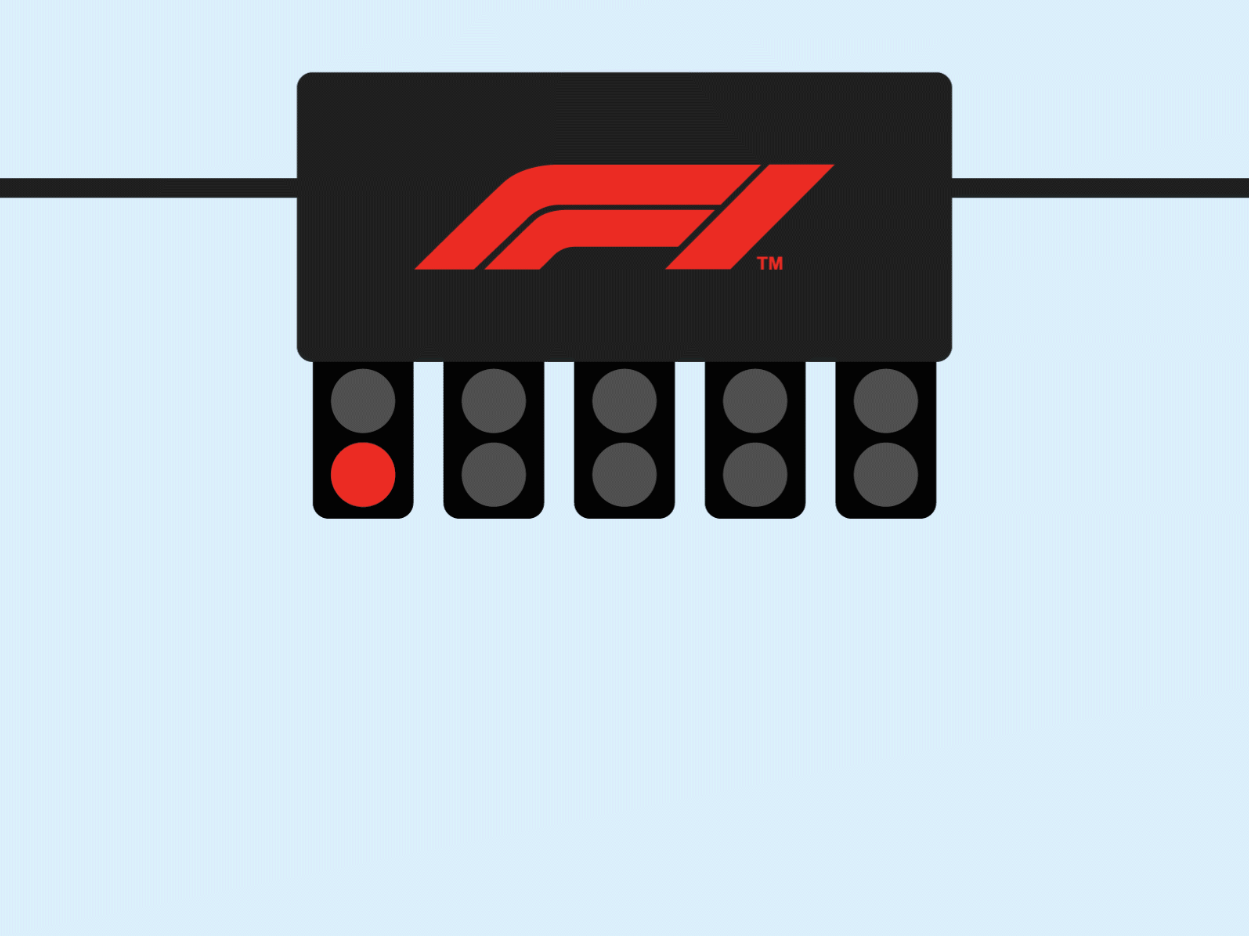
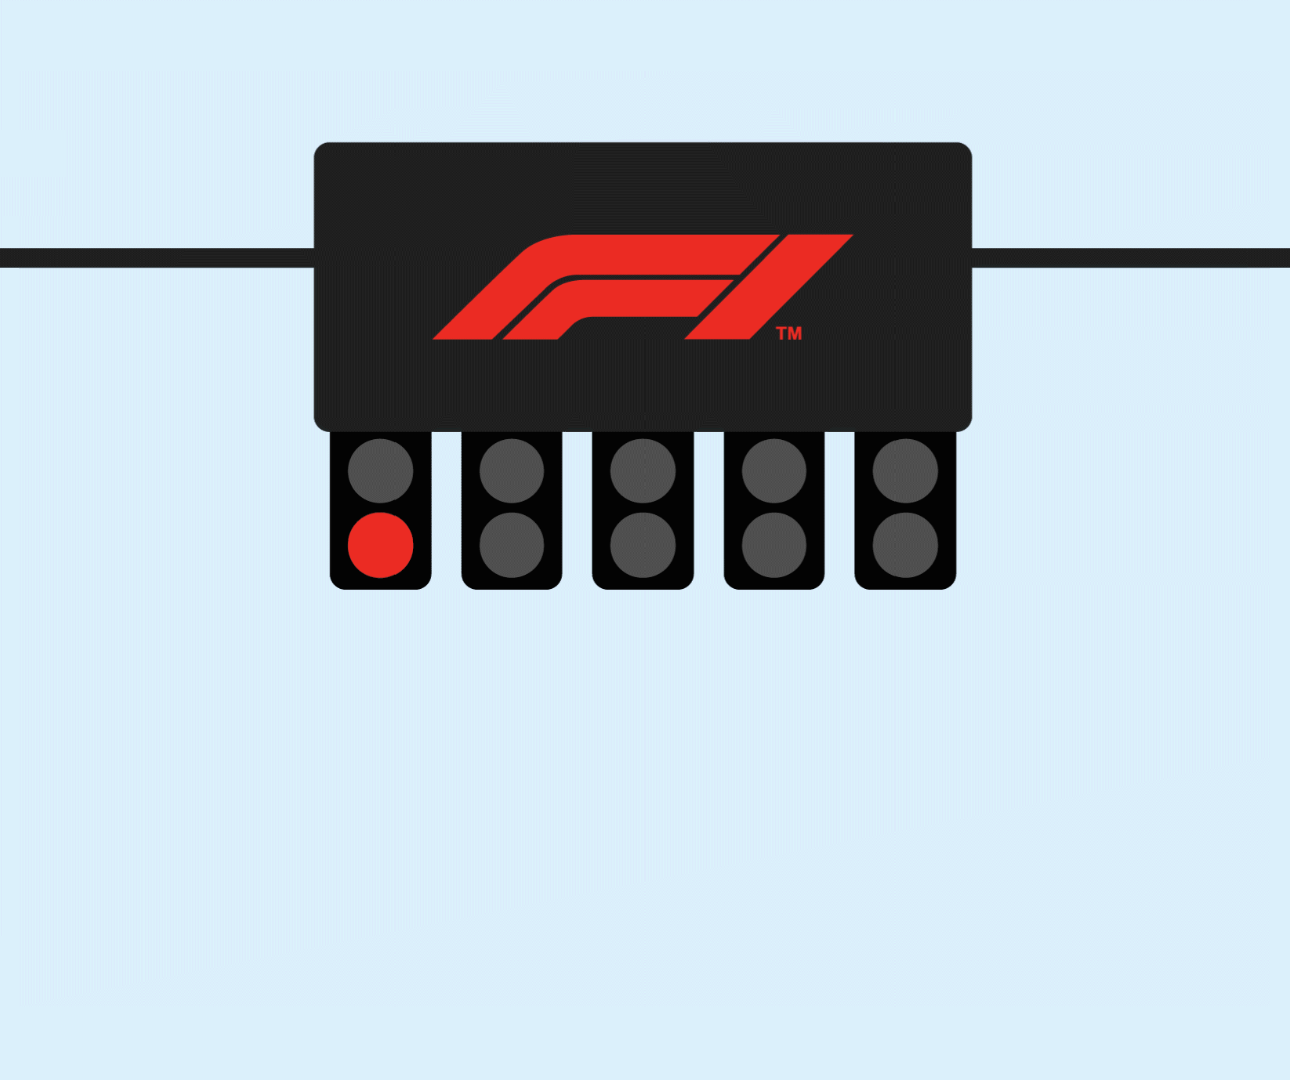
Fixing errors, working backend to output.

Changed region(s): [[0.0, 0.062, 1.0, 0.5577]]

diff --git a/EOY_PAT/src/main/java/UI/StrategyOutput.java b/EOY_PAT/src/main/java/UI/StrategyOutput.java
@@ -18,7 +18,7 @@ public class StrategyOutput extends javax.swing.JFrame
     public StrategyOutput()
     {
         initComponents();
-        setLocation(590, 360);
+        setLocation(null);
 
     }
     
@@ -34,16 +34,18 @@ public class StrategyOutput extends javax.swing.JFrame
     private void initComponents()
     {
 
-        jScrollPane1 = new javax.swing.JScrollPane();
-        strategyOutputTextArea = new javax.swing.JTextArea();
         back_Button = new javax.swing.JButton();
         save_Button = new javax.swing.JButton();
+        jScrollPane1 = new javax.swing.JScrollPane();
+        outputList = new javax.swing.JList<>();
+        backgroundLabel = new javax.swing.JLabel();
 
         setDefaultCloseOperation(javax.swing.WindowConstants.EXIT_ON_CLOSE);
-
-        strategyOutputTextArea.setColumns(20);
-        strategyOutputTextArea.setRows(5);
-        jScrollPane1.setViewportView(strategyOutputTextArea);
+        setMaximumSize(new java.awt.Dimension(1290, 1080));
+        setMinimumSize(new java.awt.Dimension(16, 9));
+        setPreferredSize(new java.awt.Dimension(1290, 1080));
+        setSize(new java.awt.Dimension(1920, 1080));
+        getContentPane().setLayout(new org.netbeans.lib.awtextra.AbsoluteLayout());
 
         back_Button.setText("Back");
         back_Button.addActionListener(new java.awt.event.ActionListener()
@@ -53,34 +55,21 @@ public class StrategyOutput extends javax.swing.JFrame
                 back_ButtonActionPerformed(evt);
             }
         });
+        getContentPane().add(back_Button, new org.netbeans.lib.awtextra.AbsoluteConstraints(20, 880, 73, -1));
 
         save_Button.setText("Save");
+        getContentPane().add(save_Button, new org.netbeans.lib.awtextra.AbsoluteConstraints(520, 890, 73, -1));
 
-        javax.swing.GroupLayout layout = new javax.swing.GroupLayout(getContentPane());
-        getContentPane().setLayout(layout);
-        layout.setHorizontalGroup(
-            layout.createParallelGroup(javax.swing.GroupLayout.Alignment.LEADING)
-            .addGroup(layout.createSequentialGroup()
-                .addContainerGap()
-                .addGroup(layout.createParallelGroup(javax.swing.GroupLayout.Alignment.LEADING)
-                    .addComponent(jScrollPane1, javax.swing.GroupLayout.DEFAULT_SIZE, 280, Short.MAX_VALUE)
-                    .addGroup(layout.createSequentialGroup()
-                        .addComponent(back_Button, javax.swing.GroupLayout.PREFERRED_SIZE, 73, javax.swing.GroupLayout.PREFERRED_SIZE)
-                        .addPreferredGap(javax.swing.LayoutStyle.ComponentPlacement.RELATED, javax.swing.GroupLayout.DEFAULT_SIZE, Short.MAX_VALUE)
-                        .addComponent(save_Button, javax.swing.GroupLayout.PREFERRED_SIZE, 73, javax.swing.GroupLayout.PREFERRED_SIZE)))
-                .addContainerGap())
-        );
-        layout.setVerticalGroup(
-            layout.createParallelGroup(javax.swing.GroupLayout.Alignment.LEADING)
-            .addGroup(layout.createSequentialGroup()
-                .addContainerGap()
-                .addComponent(jScrollPane1, javax.swing.GroupLayout.DEFAULT_SIZE, 169, Short.MAX_VALUE)
-                .addPreferredGap(javax.swing.LayoutStyle.ComponentPlacement.UNRELATED)
-                .addGroup(layout.createParallelGroup(javax.swing.GroupLayout.Alignment.BASELINE)
-                    .addComponent(back_Button)
-                    .addComponent(save_Button))
-                .addGap(13, 13, 13))
-        );
+        outputList.setSelectionMode(javax.swing.ListSelectionModel.SINGLE_SELECTION);
+        jScrollPane1.setViewportView(outputList);
+
+        getContentPane().add(jScrollPane1, new org.netbeans.lib.awtextra.AbsoluteConstraints(670, 540, 550, 370));
+
+        backgroundLabel.setIcon(new javax.swing.ImageIcon("C:\\Users\\Jcj\\Documents\\NetBeansProjects\\PAT\\EOY_PAT\\src\\main\\resources\\images\\F1Lights3.png")); // NOI18N
+        backgroundLabel.setMaximumSize(new java.awt.Dimension(1290, 1080));
+        backgroundLabel.setMinimumSize(null);
+        backgroundLabel.setPreferredSize(new java.awt.Dimension(1290, 1080));
+        getContentPane().add(backgroundLabel, new org.netbeans.lib.awtextra.AbsoluteConstraints(0, 0, 1240, 930));
 
         pack();
     }// </editor-fold>//GEN-END:initComponents
@@ -148,8 +137,9 @@ public class StrategyOutput extends javax.swing.JFrame
 
     // Variables declaration - do not modify//GEN-BEGIN:variables
     private javax.swing.JButton back_Button;
+    private javax.swing.JLabel backgroundLabel;
     private javax.swing.JScrollPane jScrollPane1;
+    private javax.swing.JList<String> outputList;
     private javax.swing.JButton save_Button;
-    private javax.swing.JTextArea strategyOutputTextArea;
     // End of variables declaration//GEN-END:variables
 }

diff --git a/EOY_PAT/src/main/java/UI/User_Tyre_InputScreen.java b/EOY_PAT/src/main/java/UI/User_Tyre_InputScreen.java
@@ -85,7 +85,7 @@ public class User_Tyre_InputScreen extends javax.swing.JFrame
                 jTextField1ActionPerformed(evt);
             }
         });
-        getContentPane().add(jTextField1, new org.netbeans.lib.awtextra.AbsoluteConstraints(30, 500, 401, 31));
+        getContentPane().add(jTextField1, new org.netbeans.lib.awtextra.AbsoluteConstraints(30, 500, 410, 31));
 
         soft_Tyres_Label.setForeground(new java.awt.Color(33, 33, 33));
         soft_Tyres_Label.setText("Soft Tyres:");
@@ -122,7 +122,7 @@ public class User_Tyre_InputScreen extends javax.swing.JFrame
                 calculate_ButtonActionPerformed(evt);
             }
         });
-        getContentPane().add(calculate_Button, new org.netbeans.lib.awtextra.AbsoluteConstraints(640, 770, -1, -1));
+        getContentPane().add(calculate_Button, new org.netbeans.lib.awtextra.AbsoluteConstraints(360, 770, -1, -1));
 
         back_Button.setText("Back");
         back_Button.addActionListener(new java.awt.event.ActionListener()
@@ -152,8 +152,8 @@ public class User_Tyre_InputScreen extends javax.swing.JFrame
                 hard_FirstLapTimeFieldActionPerformed(evt);
             }
         });
-        getContentPane().add(hard_FirstLapTimeField, new org.netbeans.lib.awtextra.AbsoluteConstraints(380, 570, 55, -1));
-        getContentPane().add(hard_LastLapTimeField, new org.netbeans.lib.awtextra.AbsoluteConstraints(380, 600, 55, -1));
+        getContentPane().add(hard_FirstLapTimeField, new org.netbeans.lib.awtextra.AbsoluteConstraints(380, 570, 60, -1));
+        getContentPane().add(hard_LastLapTimeField, new org.netbeans.lib.awtextra.AbsoluteConstraints(380, 600, 60, -1));
 
         hard_MaxLapsField.addActionListener(new java.awt.event.ActionListener()
         {
@@ -162,15 +162,15 @@ public class User_Tyre_InputScreen extends javax.swing.JFrame
                 hard_MaxLapsFieldActionPerformed(evt);
             }
         });
-        getContentPane().add(hard_MaxLapsField, new org.netbeans.lib.awtextra.AbsoluteConstraints(380, 630, 55, -1));
+        getContentPane().add(hard_MaxLapsField, new org.netbeans.lib.awtextra.AbsoluteConstraints(380, 630, 60, -1));
 
         medium_Tyres_Label.setForeground(new java.awt.Color(33, 33, 33));
         medium_Tyres_Label.setText("Medium Tyres:");
-        getContentPane().add(medium_Tyres_Label, new org.netbeans.lib.awtextra.AbsoluteConstraints(280, 550, -1, -1));
+        getContentPane().add(medium_Tyres_Label, new org.netbeans.lib.awtextra.AbsoluteConstraints(290, 550, -1, -1));
 
         hard_Tyres_Label.setForeground(new java.awt.Color(33, 33, 33));
         hard_Tyres_Label.setText("Hard Tyres:");
-        getContentPane().add(hard_Tyres_Label, new org.netbeans.lib.awtextra.AbsoluteConstraints(370, 550, -1, -1));
+        getContentPane().add(hard_Tyres_Label, new org.netbeans.lib.awtextra.AbsoluteConstraints(380, 550, -1, -1));
 
         output_TextArea.setEditable(false);
         output_TextArea.setColumns(20);
@@ -182,12 +182,12 @@ public class User_Tyre_InputScreen extends javax.swing.JFrame
         raceDistance_Label.setForeground(new java.awt.Color(33, 33, 33));
         raceDistance_Label.setText("How many laps does the race consist of?");
         getContentPane().add(raceDistance_Label, new org.netbeans.lib.awtextra.AbsoluteConstraints(30, 660, 733, -1));
-        getContentPane().add(raceDistance_Field, new org.netbeans.lib.awtextra.AbsoluteConstraints(30, 680, 690, -1));
+        getContentPane().add(raceDistance_Field, new org.netbeans.lib.awtextra.AbsoluteConstraints(30, 680, 410, -1));
 
         pitTime_Label.setForeground(new java.awt.Color(33, 33, 33));
         pitTime_Label.setText("Average pit-lane time?");
         getContentPane().add(pitTime_Label, new org.netbeans.lib.awtextra.AbsoluteConstraints(30, 720, 733, -1));
-        getContentPane().add(pitTime_Field, new org.netbeans.lib.awtextra.AbsoluteConstraints(30, 740, 690, -1));
+        getContentPane().add(pitTime_Field, new org.netbeans.lib.awtextra.AbsoluteConstraints(30, 740, 410, -1));
 
         backgroundImage_Label.setIcon(new javax.swing.ImageIcon("C:\\Images\\F1Lights2 (2).PNG")); // NOI18N
         getContentPane().add(backgroundImage_Label, new org.netbeans.lib.awtextra.AbsoluteConstraints(0, 0, -1, 870));
@@ -248,8 +248,13 @@ public class User_Tyre_InputScreen extends javax.swing.JFrame
         }
         try
         {
+            PrintWriter outputFile = new PrintWriter("/data/output.txt");
             String output = Strategy.getStrats();
-            output_TextArea.setText(output);
+            outputFile.print(output);
+            
+            StrategyOutput so = new StrategyOutput();
+            so.setVisible(true);
+            dispose();
         }
         catch (FileNotFoundException exc)
         {

diff --git a/EOY_PAT/src/main/java/UI/HomeScreen.java b/EOY_PAT/src/main/java/UI/HomeScreen.java
@@ -34,7 +34,7 @@ public class HomeScreen extends javax.swing.JFrame
         data_Input_Type = new javax.swing.JTextField();
         live_Data_Button = new javax.swing.JButton();
         user_Data_Button = new javax.swing.JButton();
-        jLabel1 = new javax.swing.JLabel();
+        backgroundLabel = new javax.swing.JLabel();
 
         setDefaultCloseOperation(javax.swing.WindowConstants.EXIT_ON_CLOSE);
         setTitle("Strategy Home Screen");
@@ -71,8 +71,8 @@ public class HomeScreen extends javax.swing.JFrame
         });
         getContentPane().add(user_Data_Button, new org.netbeans.lib.awtextra.AbsoluteConstraints(846, 585, 210, 130));
 
-        jLabel1.setIcon(new javax.swing.ImageIcon("C:\\Images\\F1Lights1.png")); // NOI18N
-        getContentPane().add(jLabel1, new org.netbeans.lib.awtextra.AbsoluteConstraints(0, 0, -1, -1));
+        backgroundLabel.setIcon(new javax.swing.ImageIcon("C:\\Users\\Jcj\\Documents\\NetBeansProjects\\PAT\\EOY_PAT\\src\\main\\resources\\images\\F1Lights1.png")); // NOI18N
+        getContentPane().add(backgroundLabel, new org.netbeans.lib.awtextra.AbsoluteConstraints(0, 0, -1, -1));
 
         pack();
     }// </editor-fold>//GEN-END:initComponents
@@ -144,8 +144,8 @@ public class HomeScreen extends javax.swing.JFrame
     }
 
     // Variables declaration - do not modify//GEN-BEGIN:variables
+    private javax.swing.JLabel backgroundLabel;
     private javax.swing.JTextField data_Input_Type;
-    private javax.swing.JLabel jLabel1;
     private javax.swing.JButton live_Data_Button;
     private javax.swing.JButton user_Data_Button;
     // End of variables declaration//GEN-END:variables
